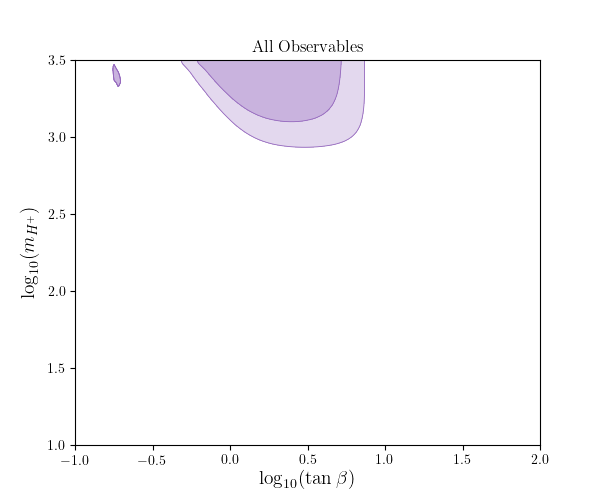
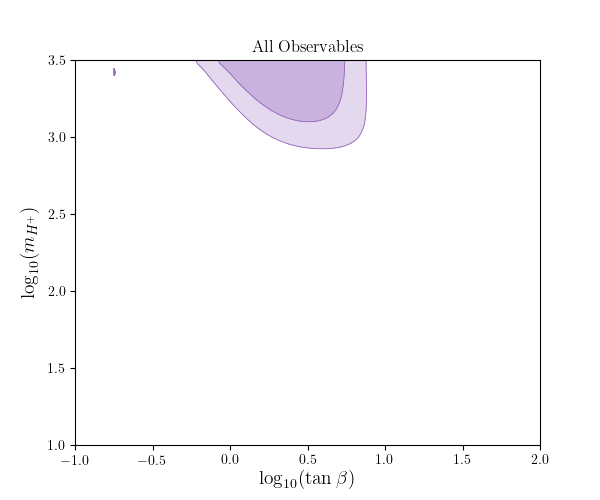
RK and RK* added

Changed region(s): [[0.3, 0.12, 0.63, 0.3], [0.18, 0.12, 0.21, 0.18]]

diff --git a/repl-glob.py b/repl-glob.py
@@ -50,92 +50,95 @@ my_obs = [
     'DeltaM_d','DeltaM_s', # [12:14]
     'Rtaul(B->Dlnu)', 'Rtaul(B->D*lnu)', # [14:16]
     'BR(B0->Dlnu)', 'BR(B+->Dlnu)', 'BR(B0->D*lnu)', 'BR(B+->D*lnu)', 'BR(B+->pilnu)', 'BR(B0->pilnu)', 'BR(B+->rholnu)', 'BR(B0->rholnu)', 'BR(D+->Kenu)', 'BR(D+->Kmunu)', 'BR(D+->pienu)', 'BR(D+->pimunu)', 'BR(D0->Kenu)', 'BR(D0->Kmunu)', 'BR(D0->pienu)', 'BR(D0->pimunu)', 'BR(K+->pienu)', 'BR(K+->pimunu)', 'BR(KL->pienu)', 'BR(KL->pimunu)', 'BR(KS->pienu)', 'BR(KS->pimunu)', # [16:]
+    ("<Rmue>(B+->Kll)", 1.0, 6.0), # [38]
+    ("<Rmue>(B0->K*ll)", 0.045, 1.1), # [39]
+    ("<Rmue>(B0->K*ll)", 1.1, 6.0), # [40]
 ]
 
 sigmas = (1,2)
 
-Fleps = FastLikelihood(name="trees",observables=my_obs[:9]+my_obs[14:],include_measurements=['Tree Level Leptonics','LFU D Ratios','Tree Level Semileptonics']) 
-Fleps.make_measurement(N=500,threads=4)
+#Fleps = FastLikelihood(name="trees",observables=my_obs[:9]+my_obs[14:],include_measurements=['Tree Level Leptonics','LFU D Ratios','Tree Level Semileptonics']) 
+#Fleps.make_measurement(N=500,threads=4)
+#
+#def leps(wcs):
+#    tanb, mH = wcs # state what the two parameters are going to be on the plot
+#
+#    par = flavio.default_parameters.get_central_all()
+#    ckm_els = flavio.physics.ckm.get_ckm(par) # get out all the CKM elements
+#
+#    CSR_b, CSL_b = rh(par['m_u'],par['m_b'],10**tanb,10**mH)
+#    CSR_d, CSL_d = rh(par['m_c'],par['m_s'],10**tanb,10**mH)
+#    CSR_ds, CSL_ds = rh(par['m_c'],par['m_s'],10**tanb,10**mH)
+#    CSR_k, CSL_k = rh(par['m_u'],par['m_s'],10**tanb,10**mH)
+#    CSR_p, CSL_p = rh(par['m_u'],par['m_d'],10**tanb,10**mH)
+#    CSL_bc, CSR_bc = rh(par['m_c'],par['m_b'],10**tanb,10**mH)
+#
+#    wc = flavio.WilsonCoefficients()
+#    wc.set_initial({ # tell flavio what WCs you're referring to with your variables
+#            'CSR_bctaunutau': CSR_bc, 'CSL_bctaunutau': CSL_bc,
+#            'CSR_bcmunumu': CSR_bc, 'CSL_bcmunumu': CSL_bc,
+#            'CSR_bcenue': CSR_bc, 'CSL_bcenue': CSL_bc, 
+#            'CSR_butaunutau': CSR_b, 'CSL_butaunutau': CSL_b,
+#            'CSR_bumunumu': CSR_b, 'CSL_bumunumu': CSL_b,
+#            'CSR_buenue': CSR_b, 'CSL_buenue': CSL_b, 
+#            'CSR_dcmunumu': CSR_d, 'CSL_dcmunumu': CSL_d,
+#            'CSR_dcenue': CSR_d, 'CSL_dcenue': CSL_d, 
+#            'CSR_sctaunutau': CSR_ds, 'CSL_sctaunutau': CSL_ds,
+#            'CSR_scmunumu': CSR_ds, 'CSL_scmunumu': CSL_ds,
+#            'CSR_scenue': CSR_ds, 'CSL_scenue': CSL_ds, 
+#            'CSR_sutaunutau': CSR_k, 'CSL_sutaunutau': CSL_k, 
+#            'CSR_sumunumu': CSR_k, 'CSL_sumunumu': CSL_k, 
+#            'CSR_suenue': CSR_k, 'CSL_suenue': CSL_k, 
+#            'CSR_dutaunutau': CSR_p, 'CSL_dutaunutau': CSL_p, 
+#            'CSR_dumunumu': CSR_p, 'CSL_dumunumu': CSL_p, 
+#        }, scale=4.2, eft='WET', basis='flavio')
+#    return Fleps.log_likelihood(par,wc)
+#
+#cleps = fpl.likelihood_contour_data(leps,-1,2,1,3.5, n_sigma=sigmas, threads=4, steps=40) 
+#
+#Fmix = FastLikelihood(name="mix",observables=my_obs[12:14],include_measurements=['B Mixing',]) 
+#Fmix.make_measurement(N=500,threads=4)
+#
+#def mix(wcs):
+#    tanb, mH = wcs # state what the two parameters are going to be on the plot
+#
+#    par = flavio.default_parameters.get_central_all()
+#    ckm_els = flavio.physics.ckm.get_ckm(par) # get out all the CKM elements
+#
+#    CVLL_bs, CVRR_bs, CSLL_bs, CSRR_bs, CSLR_bs, CVLR_bs = mixing(par,ckm_els,['m_s',1,'m_d'],10**tanb,10**mH)
+#    CVLL_bd, CVRR_bd, CSLL_bd, CSRR_bd, CSLR_bd, CVLR_bd = mixing(par,ckm_els,['m_d',0,'m_s'],10**tanb,10**mH)
+##    CVLL_bs = mixing2(par,abs(ckm_els[2,1]*np.conj(ckm_els[2,2]))**2,10**tanb,10**mH)
+##    CVLL_bd = mixing2(par,abs(ckm_els[2,0]*np.conj(ckm_els[2,2]))**2,10**tanb,10**mH)
+#
+#    wc = flavio.WilsonCoefficients()
+#    wc.set_initial({ # tell flavio what WCs you're referring to with your variables
+#            'CVLL_bsbs': CVLL_bs,'CVRR_bsbs': CVRR_bs,'CSLL_bsbs': CSLL_bs,'CSRR_bsbs': CSRR_bs,'CSLR_bsbs': CSLR_bs,'CVLR_bsbs': CVLR_bs, # DeltaM_s
+#            'CVLL_bdbd': CVLL_bd,'CVRR_bdbd': CVRR_bd,'CSLL_bdbd': CSLL_bd,'CSRR_bdbd': CSRR_bd,'CSLR_bdbd': CSLR_bd,'CVLR_bdbd': CVLR_bd, # DeltaM_d
+#        }, scale=4.2, eft='WET', basis='flavio')
+#    return Fmix.log_likelihood(par,wc)
+#
+#cmix = fpl.likelihood_contour_data(mix,-1,2,1,3.5, n_sigma=sigmas, threads=4, steps=40) 
+#
+#Frad = FastLikelihood(name="rad",observables=['BR(B->Xsgamma)'],include_measurements=['Radiative Decays']) 
+#Frad.make_measurement(N=500,threads=4)
+#
+#def rad(wcs):
+#    tanb, mH = wcs # state what the two parameters are going to be on the plot
+#
+#    par = flavio.default_parameters.get_central_all()
+#    ckm_els = flavio.physics.ckm.get_ckm(par) # get out all the CKM elements
+#
+#    C7_bs, C8_bs = bsgamma(par,10**tanb,10**mH)
+#
+#    wc = flavio.WilsonCoefficients()
+#    wc.set_initial({ # tell flavio what WCs you're referring to with your variables
+#            'C7_bs': C7_bs,'C8_bs': C8_bs, # B->Xsgamma
+#        }, scale=4.2, eft='WET', basis='flavio')
+#    return Frad.log_likelihood(par,wc)
+#
+#crad = fpl.likelihood_contour_data(rad,-1,2,1,3.5, n_sigma=sigmas, threads=4, steps=40) 
 
-def leps(wcs):
-    tanb, mH = wcs # state what the two parameters are going to be on the plot
-
-    par = flavio.default_parameters.get_central_all()
-    ckm_els = flavio.physics.ckm.get_ckm(par) # get out all the CKM elements
-
-    CSR_b, CSL_b = rh(par['m_u'],par['m_b'],10**tanb,10**mH)
-    CSR_d, CSL_d = rh(par['m_c'],par['m_s'],10**tanb,10**mH)
-    CSR_ds, CSL_ds = rh(par['m_c'],par['m_s'],10**tanb,10**mH)
-    CSR_k, CSL_k = rh(par['m_u'],par['m_s'],10**tanb,10**mH)
-    CSR_p, CSL_p = rh(par['m_u'],par['m_d'],10**tanb,10**mH)
-    CSL_bc, CSR_bc = rh(par['m_c'],par['m_b'],10**tanb,10**mH)
-
-    wc = flavio.WilsonCoefficients()
-    wc.set_initial({ # tell flavio what WCs you're referring to with your variables
-            'CSR_bctaunutau': CSR_bc, 'CSL_bctaunutau': CSL_bc,
-            'CSR_bcmunumu': CSR_bc, 'CSL_bcmunumu': CSL_bc,
-            'CSR_bcenue': CSR_bc, 'CSL_bcenue': CSL_bc, 
-            'CSR_butaunutau': CSR_b, 'CSL_butaunutau': CSL_b,
-            'CSR_bumunumu': CSR_b, 'CSL_bumunumu': CSL_b,
-            'CSR_buenue': CSR_b, 'CSL_buenue': CSL_b, 
-            'CSR_dcmunumu': CSR_d, 'CSL_dcmunumu': CSL_d,
-            'CSR_dcenue': CSR_d, 'CSL_dcenue': CSL_d, 
-            'CSR_sctaunutau': CSR_ds, 'CSL_sctaunutau': CSL_ds,
-            'CSR_scmunumu': CSR_ds, 'CSL_scmunumu': CSL_ds,
-            'CSR_scenue': CSR_ds, 'CSL_scenue': CSL_ds, 
-            'CSR_sutaunutau': CSR_k, 'CSL_sutaunutau': CSL_k, 
-            'CSR_sumunumu': CSR_k, 'CSL_sumunumu': CSL_k, 
-            'CSR_suenue': CSR_k, 'CSL_suenue': CSL_k, 
-            'CSR_dutaunutau': CSR_p, 'CSL_dutaunutau': CSL_p, 
-            'CSR_dumunumu': CSR_p, 'CSL_dumunumu': CSL_p, 
-        }, scale=4.2, eft='WET', basis='flavio')
-    return Fleps.log_likelihood(par,wc)
-
-cleps = fpl.likelihood_contour_data(leps,-1,2,1,3.5, n_sigma=sigmas, threads=4, steps=40) 
-
-Fmix = FastLikelihood(name="mix",observables=my_obs[12:14],include_measurements=['B Mixing',]) 
-Fmix.make_measurement(N=500,threads=4)
-
-def mix(wcs):
-    tanb, mH = wcs # state what the two parameters are going to be on the plot
-
-    par = flavio.default_parameters.get_central_all()
-    ckm_els = flavio.physics.ckm.get_ckm(par) # get out all the CKM elements
-
-    CVLL_bs, CVRR_bs, CSLL_bs, CSRR_bs, CSLR_bs, CVLR_bs = mixing(par,ckm_els,['m_s',1,'m_d'],10**tanb,10**mH)
-    CVLL_bd, CVRR_bd, CSLL_bd, CSRR_bd, CSLR_bd, CVLR_bd = mixing(par,ckm_els,['m_d',0,'m_s'],10**tanb,10**mH)
-#    CVLL_bs = mixing2(par,abs(ckm_els[2,1]*np.conj(ckm_els[2,2]))**2,10**tanb,10**mH)
-#    CVLL_bd = mixing2(par,abs(ckm_els[2,0]*np.conj(ckm_els[2,2]))**2,10**tanb,10**mH)
-
-    wc = flavio.WilsonCoefficients()
-    wc.set_initial({ # tell flavio what WCs you're referring to with your variables
-            'CVLL_bsbs': CVLL_bs,'CVRR_bsbs': CVRR_bs,'CSLL_bsbs': CSLL_bs,'CSRR_bsbs': CSRR_bs,'CSLR_bsbs': CSLR_bs,'CVLR_bsbs': CVLR_bs, # DeltaM_s
-            'CVLL_bdbd': CVLL_bd,'CVRR_bdbd': CVRR_bd,'CSLL_bdbd': CSLL_bd,'CSRR_bdbd': CSRR_bd,'CSLR_bdbd': CSLR_bd,'CVLR_bdbd': CVLR_bd, # DeltaM_d
-        }, scale=4.2, eft='WET', basis='flavio')
-    return Fmix.log_likelihood(par,wc)
-
-cmix = fpl.likelihood_contour_data(mix,-1,2,1,3.5, n_sigma=sigmas, threads=4, steps=40) 
-
-Frad = FastLikelihood(name="rad",observables=['BR(B->Xsgamma)'],include_measurements=['Radiative Decays']) 
-Frad.make_measurement(N=500,threads=4)
-
-def rad(wcs):
-    tanb, mH = wcs # state what the two parameters are going to be on the plot
-
-    par = flavio.default_parameters.get_central_all()
-    ckm_els = flavio.physics.ckm.get_ckm(par) # get out all the CKM elements
-
-    C7_bs, C8_bs = bsgamma(par,10**tanb,10**mH)
-
-    wc = flavio.WilsonCoefficients()
-    wc.set_initial({ # tell flavio what WCs you're referring to with your variables
-            'C7_bs': C7_bs,'C8_bs': C8_bs, # B->Xsgamma
-        }, scale=4.2, eft='WET', basis='flavio')
-    return Frad.log_likelihood(par,wc)
-
-crad = fpl.likelihood_contour_data(rad,-1,2,1,3.5, n_sigma=sigmas, threads=4, steps=40) 
-
-Fmu = FastLikelihood(name="mu",observables=my_obs[10:12],include_measurements=['FCNC Leptonic Decays',]) # choosing to include only the measurements from world_avgs
+Fmu = FastLikelihood(name="mu",observables=my_obs[10:12]+my_obs[-3:],include_measurements=['FCNC Leptonic Decays','LFU K Ratios']) 
 Fmu.make_measurement(N=500,threads=4)
 
 def mu(wcs):
@@ -156,7 +159,7 @@ def mu(wcs):
 
 cmu = fpl.likelihood_contour_data(mu,-1,2,1,3.5, n_sigma=sigmas, threads=4, steps=40) 
 
-FL2 = FastLikelihood(name="likelihood test",observables=my_obs,include_measurements=['Tree Level Leptonics','Radiative Decays','FCNC Leptonic Decays','B Mixing','LFU D Ratios','Tree Level Semileptonics'])
+FL2 = FastLikelihood(name="likelihood test",observables=my_obs,include_measurements=['Tree Level Leptonics','Radiative Decays','FCNC Leptonic Decays','B Mixing','LFU D Ratios','Tree Level Semileptonics','LFU K Ratios',])
 FL2.make_measurement(N=500,threads=4)
 
 def func(wcs):
@@ -211,46 +214,48 @@ cdat = fpl.likelihood_contour_data(func,-1,2,1,3.5, n_sigma=sigmas, threads=4, s
 #   Print Out Values
 #------------------------------
 
-bf,minh,mint,maxt = mHmin(cdat)
-print("Best fit value is found for (tanb,mH) =", bf)
-print("Print outs are lists for values at", sigmas, "sigmas")
-print("Minimum value of mH+ is:", minh)
-print("Minimum value of tanb is:", mint)
-print("Maximum value of tanb is:", maxt)
+#bf,minh,mint,maxt = mHmin(cdat)
+#print("Best fit value is found for (tanb,mH) =", bf)
+#print("Print outs are lists for values at", sigmas, "sigmas")
+#print("Minimum value of mH+ is:", minh)
+#print("Minimum value of tanb is:", mint)
+#print("Maximum value of tanb is:", maxt)
 
 #------------------------------
 #   Plotting
 #------------------------------
 
-plt.figure(figsize=(6,5))
-fpl.contour(**cleps,interpolation_factor=3,col=2) 
-plt.title('Tree Level Leptonic and Semileptonics and Hadronic Tau Decays')
-plt.xlabel(r'$\log_{10}(\tan\beta)$') # log10
-plt.ylabel(r'$\log_{10}(m_{H^+})$') #log10
-plt.savefig('qqlnu_plot.png')
-
-plt.figure(figsize=(6,5))
-fpl.contour(**cmix,interpolation_factor=3,col=0) 
-#plt.title(r'$\Delta M_{d,s}$ from Approximated Expressions')
-plt.title(r'$\Delta M_{d,s}$ from Crivellin 1903.10440')
-plt.xlabel(r'$\log_{10}(\tan\beta)$') # log10
-plt.ylabel(r'$\log_{10}(m_{H^+})$') #log10
-#plt.savefig('bmix_plot.png')
-plt.savefig('bcriv_plot.png')
-
-plt.figure(figsize=(6,5))
-fpl.contour(**crad,interpolation_factor=3,col=3) 
-plt.title(r'$\bar{B}\to X_s\gamma$ Radiative Decay')
-plt.xlabel(r'$\log_{10}(\tan\beta)$') # log10
-plt.ylabel(r'$\log_{10}(m_{H^+})$') #log10
-plt.savefig('bsgamma_plot.png')
+#plt.figure(figsize=(6,5))
+#fpl.contour(**cleps,interpolation_factor=3,col=2) 
+#plt.title('Tree Level Leptonic and Semileptonics and Hadronic Tau Decays')
+#plt.xlabel(r'$\log_{10}(\tan\beta)$') # log10
+#plt.ylabel(r'$\log_{10}(m_{H^+})$') #log10
+#plt.savefig('qqlnu_plot.png')
+#
+#plt.figure(figsize=(6,5))
+#fpl.contour(**cmix,interpolation_factor=3,col=0) 
+##plt.title(r'$\Delta M_{d,s}$ from Approximated Expressions')
+#plt.title(r'$\Delta M_{d,s}$ from Crivellin 1903.10440')
+#plt.xlabel(r'$\log_{10}(\tan\beta)$') # log10
+#plt.ylabel(r'$\log_{10}(m_{H^+})$') #log10
+##plt.savefig('bmix_plot.png')
+#plt.savefig('bcriv_plot.png')
+#
+#plt.figure(figsize=(6,5))
+#fpl.contour(**crad,interpolation_factor=3,col=3) 
+#plt.title(r'$\bar{B}\to X_s\gamma$ Radiative Decay')
+#plt.xlabel(r'$\log_{10}(\tan\beta)$') # log10
+#plt.ylabel(r'$\log_{10}(m_{H^+})$') #log10
+#plt.savefig('bsgamma_plot.png')
 
 plt.figure(figsize=(6,5))
 fpl.contour(**cmu,interpolation_factor=3,col=9) 
-plt.title(r'FCNC Leptonic B Decays ($B_{s,d}\to\mu^+\mu^-$)')
+#plt.title(r'FCNC Leptonic B Decays ($B_{s,d}\to\mu^+\mu^-$)')
+#plt.title(r'$R_K$ for $q^2\in[1,6]$ \& $R_{K^{*0}}$ for $q^2\in[0.045,6]$')
+plt.title(r'$b\to sl^+l^-$ transitions ($B_{s,d}\to\mu^+\mu^-$ \& $R_K(q^2\in[1,6]),R_{K^{*0}}(q^2\in[0.045,6])$)')
 plt.xlabel(r'$\log_{10}(\tan\beta)$') # log10
 plt.ylabel(r'$\log_{10}(m_{H^+})$') #log10
-plt.savefig('bmumu_plot.png')
+plt.savefig('bsll_plot.png')
 
 plt.figure(figsize=(6,5))
 fpl.contour(**cdat,interpolation_factor=3,col=4) 

diff --git a/README.md b/README.md
@@ -22,6 +22,7 @@ _Research extension from [4th Year project](https://github.com/mbr-phys/cpviolat
 - [x] Add tree level semileptonics to fit - _same WCs as other tree levels so pretty simple_
 - [ ] Does the likelihood function change if observables are correlated or not?
 - [x] Look into `RKpi(P+->munu)`, it's going all funky right now - _doing the individual BRs instead seems to fix this_
+- [x] `RK` and `RK*` need added - should use same WCs as `Bsmumu` so simple enough
 - [ ] Conclude from heatmap results for CKM modification
 - [ ] Finish adding to `world_avgs.yml`
 
@@ -30,5 +31,5 @@ _Research extension from [4th Year project](https://github.com/mbr-phys/cpviolat
 - [ ] Sort out WC language for observables not yet added
 - [ ] Sort out obliques - do we need to add WCs to the basis?
 - [ ] What do we do about extra parameters in fit when coming to SM4 etc?
-- [ ] Higgs signal strengths, R(K)s
+- [ ] Higgs signal strengths
 - [ ] Is it better to use `Likelihood` instead of `FastLikelihood`?
